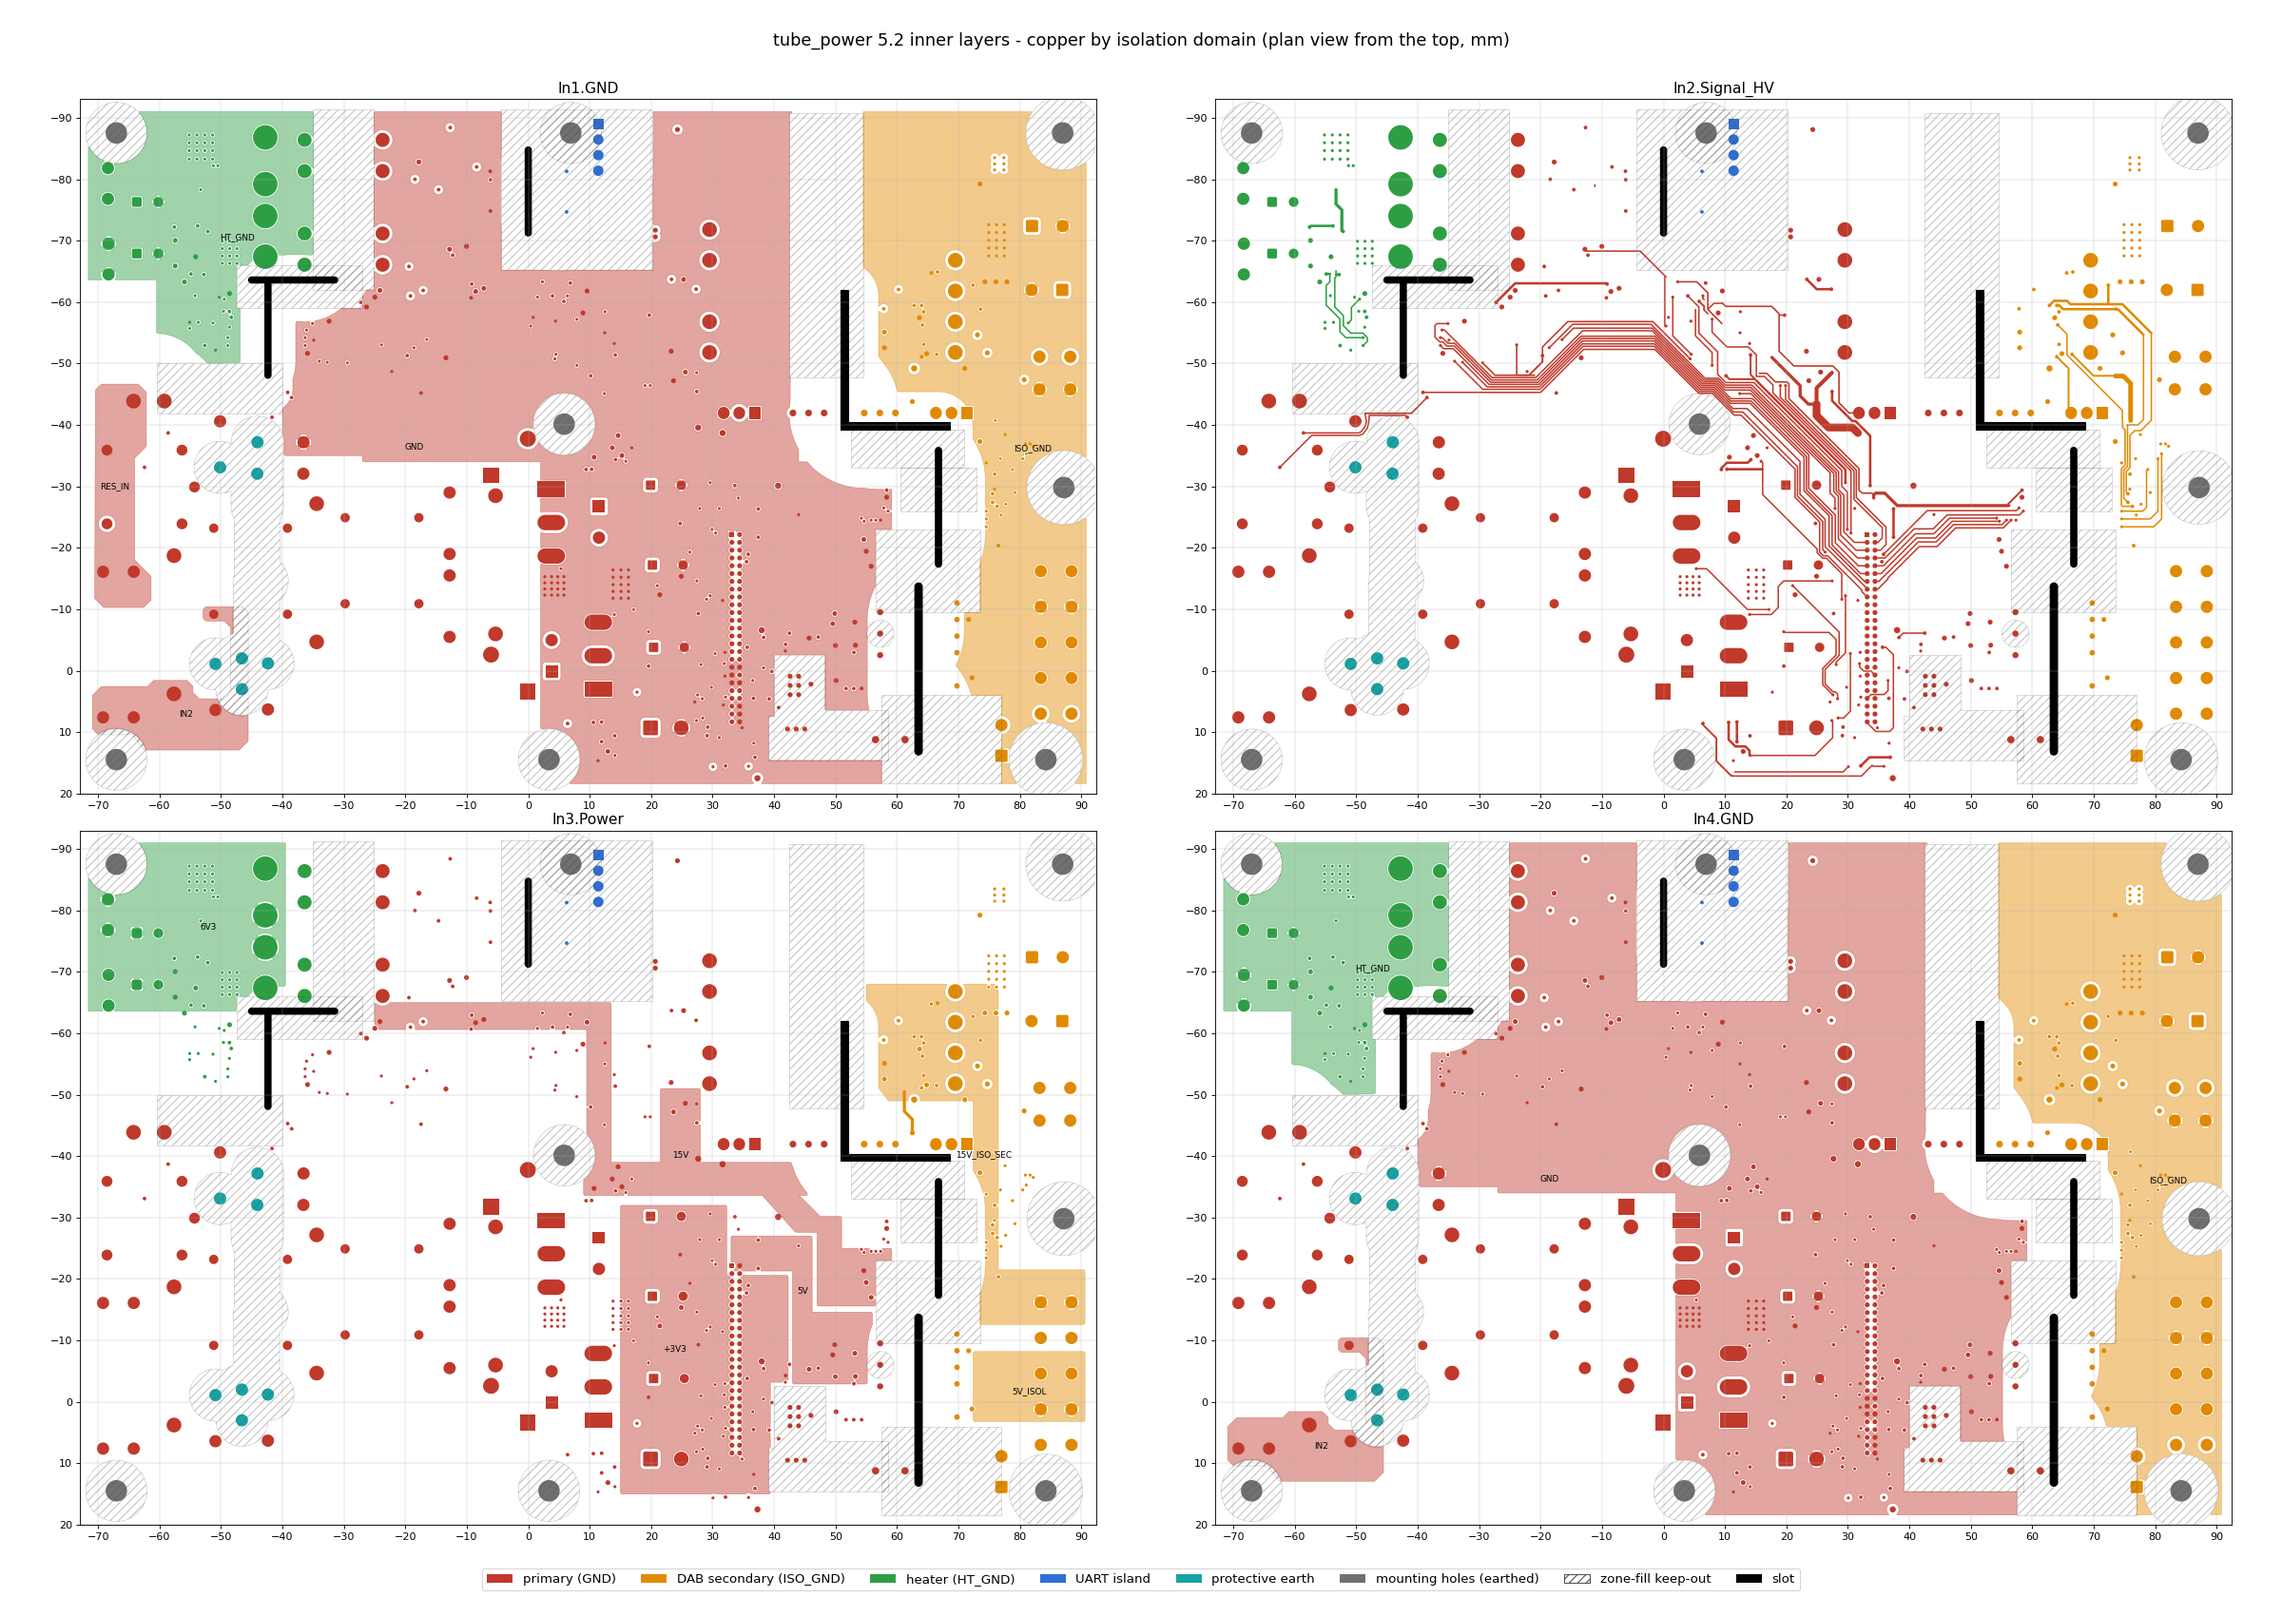
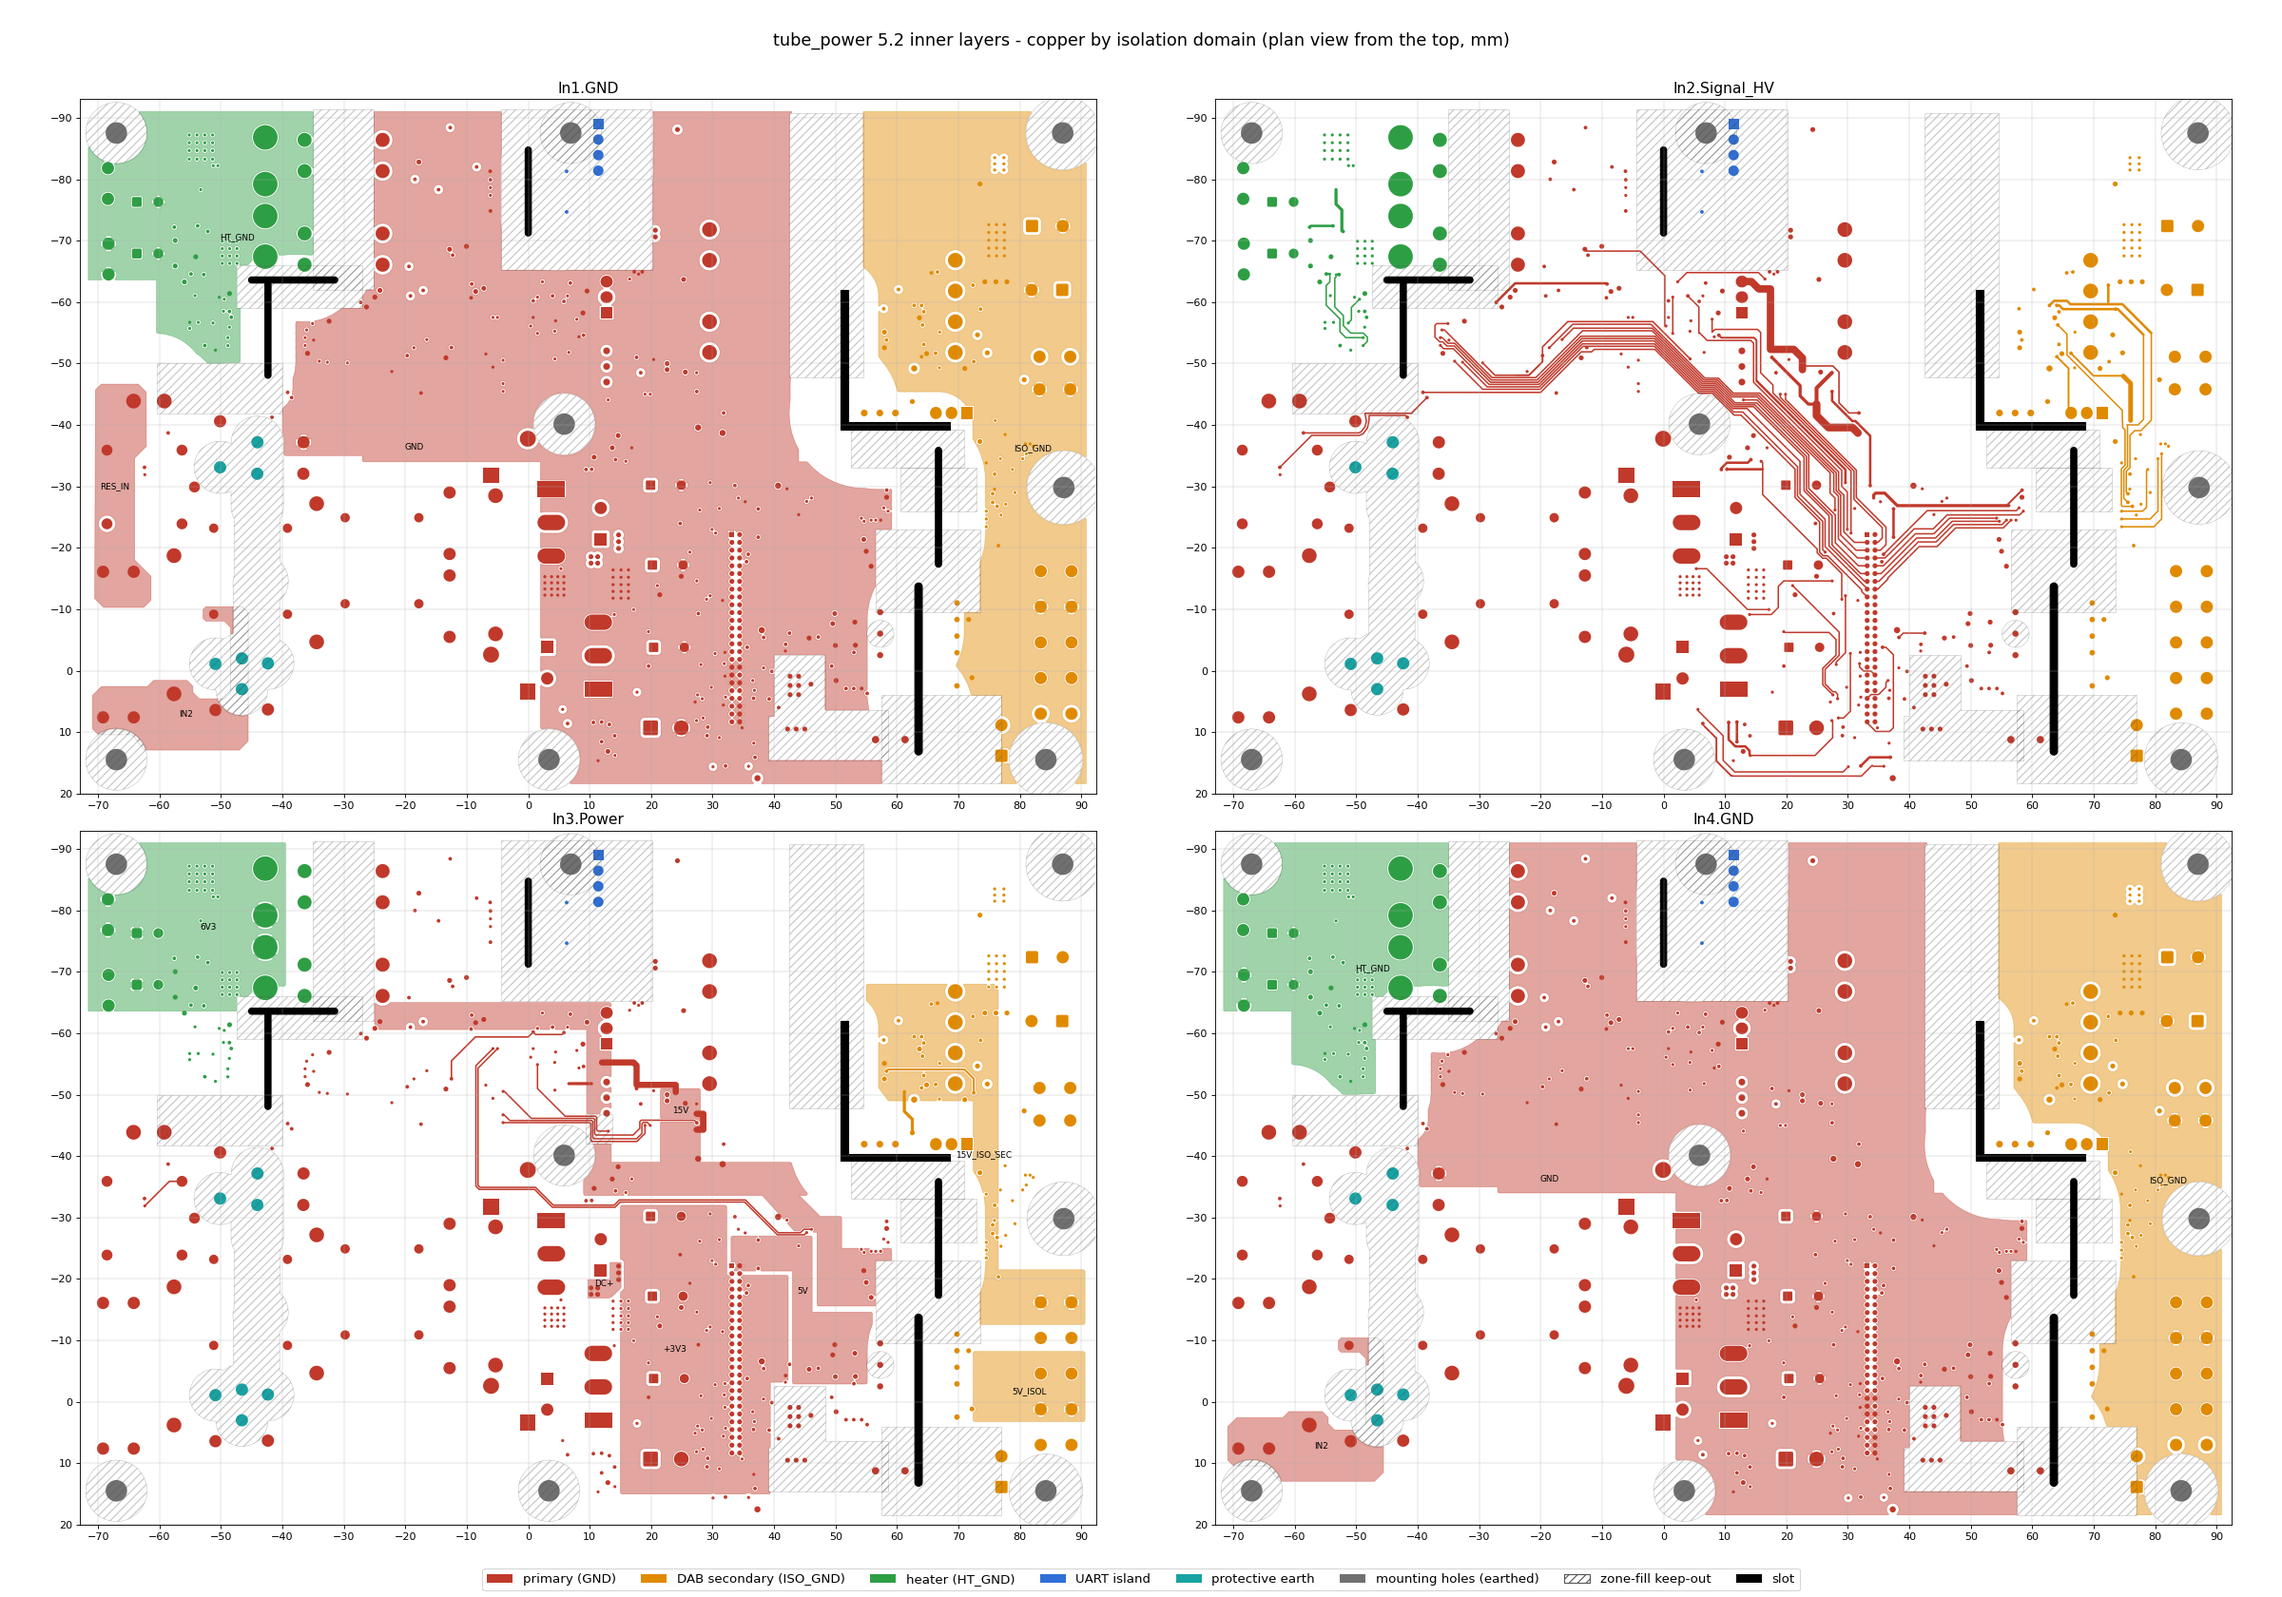
5.2 stage 6 (2): README 'First draft (2026-11-22)' - DRC counts with what is left and why, courtyard classification (106 as in 5.1, 26 courtyard-only, 0 new collisions), via-in-pad list, not checked, open inputs; layer PNGs regenerated from the current board
Claude-Session: https://claude.ai/code/session_0167bwH7SqCZEEn3vcdrr4Mn

diff --git a/kicad_next/README.md b/kicad_next/README.md
@@ -78,6 +78,52 @@ since routing stage 4k; it held the Q19 / Q21 slot exception and the TR1 pin 2 /
 becomes the real board) replaces the plain DRC step (0 violations required, full creepage DRC) by `check_board.py`
 and lets `make_board.py --check` accept internal Edge.Cuts slots inside the unchanged 5.1 outline.
 
+## First draft (2026-11-22)
+
+State after the clean-up pass `tools/next/route_s6_cleanup.py --group clr,dangling` (stage 6; incremental, not
+re-runnable; `routing/deleted_s6.json`, `s6_added.json`, `moves_s6.json` (empty)): every connection of the netlist is
+made, 0 shorts, 0 unconnected, `tools/next/check_next.sh` passes. This is the first complete draft, not a board
+checked for ordering. No part moved in this pass. PNGs of all six copper layers of this state: `routing/s3a_F_Cu.png`,
+`s3a_B_Cu.png`, `In1_GND.png` ... `In4_GND.png`, overviews `inner_domains.png`, `s3a_power_nets.png`
+(`render_s3a.py`, `render_inner_layers.py`).
+
+### DRC (check_board.py, without the creepage pass and without silkscreen checks)
+
+| type | before | now | what is left and why |
+|---|---|---|---|
+| shorts / unconnected / parity | 0 | 0 | |
+| clearance | 5 (7 with `--all-track-errors`) | 0 | Net class gaps 0.2 mm that were 0.16 ... 0.175 mm: EPWM5A_ISO In2 diagonal 0.09 mm further from the EPWM6A_ISO via (-48.89, -54.21); 5V on B.Cu 0.045 mm west (x -59.745, y -33.0 ... -26.5) past the pads of D9 and D28 pad A (two of the three pads were hidden behind the first marker); GND via (27.1, 5.1) -> (27.15, 5.1); Net-(C11-Pad1) via (28.4, 7.7) -> (28.45, 7.7); GND via (4.45, -56.9) -> (4.45, -56.95). The Net-(C11-Pad1) via now has 0.204 / 0.213 / 0.204 mm to the +1V65_BIAS track (F.Cu), R65 pad 2 and the Net-(C127-Pad1) track (B.Cu). |
+| track_dangling | 26 | 0 | Pieces under / inside a wider track of the same net, zero-length segments, overshoots trimmed to the via / junction, and stubs to nothing (5.1 leftovers of moved parts) deleted back to the next junction, with two vias that only fed such a stub (15V (15.24, -35.02), 5V (-23.9, -53.036) with its In2 lane). The longest: a +3V3 In2 lane of 25 mm from (34.2, -28.6) to a free end at (16.8, -48.4), and a +3V3 In2 stub at the via (5.8, -60.1). The DC+ track of C47 ended in a round hole of 'Proteus F.Cu pour 29' at (45.62, -41.95); it now ends inside the fill at y -42.7. |
+| courtyards_overlap | 132 | 132 | Classified by pad bounding boxes and F.Fab / B.Fab body boxes: 106 pairs stand exactly as in 5.1 (same relative place, side and turn; 17 of them with overlapping body boxes - film / electrolytic capacitors beside C86, C117, C37, C31 / C32 and the paralleled 1210 capacitors C99 / C100 / C101, C90 / C91 on the 420V rail whose same-net pads overlap); 26 pairs are new or changed and courtyard-only (pads of two nets >= 0.238 mm apart, no body box overlap > 0.05 mm; same-net pads touch at C124 / R70, R90 / D34, R79 / R49, R90 / R70). No pair with a new pad or body collision, so no part was moved. |
+| pth_inside_courtyard | 2 | 2 | Pin 1 of IN1 and pin 3 of CM1 inside the courtyard of the film capacitor C86 - as in 5.1 (the three parts are where they were). |
+| starved_thermal | 2 | 2 | C102 pin 1 (ISO_GND, (77.0, 13.85)) on In1 and In4: the pin stands in a 1.5 mm neck of the ISO_GND plane, one spoke north and one south. The barrel joins both; bias capacitor, no current. Not changed (a solid connection of this pad was not tried to the end). |
+| lib_footprint_mismatch | 2 | 2 | Q19 and Q21 (TO-220-3_Vertical): the board copies differ from the library footprint. Not looked into. |
+
+### Not checked
+
+* The creepage DRC pass of KiCad over the whole board (needs > 3 GB); the isolation distances are checked by
+  `check_domains.py` only.
+* Signal integrity of the UART pair: 82 mm on In3 between the pads of L2 and beside / under the power stages.
+* The via-in-pad process. 71 vias lie in or touch an SMD pad of their own net (47 with the centre inside the pad):
+  Q1 pad 3 (12), Q2 pad 3 (16), C73 pad 2 (10: 5 inside, 5 on the edge), C57 pad 2 (2), C89 pad 1 (2), R93 pad 2 (3),
+  one via shared by C67 pad 1 / C70 pad 1 (18.3, -48.5) and one by D10 pad A / R142 pad 2 (36.8, 3.2), and one each
+  at AD1 pad 3, AD2 pad 3, C125 pad 2, C139 pad 1, C22 pad 1, C27 pad 1, C68 pad 2, C79 pad 2, C80 pad 2, C95 pads 1
+  and 2, DRV2 pad 1, DRV5 pad 11, Q9 pad 1, Q10 pad 1, R103 pad 1, R128 pad 1, R142 pad 1, R21 pad 1, R51 pad 2,
+  R54 pad 2, R83 pad 1, R89 pad 1, U1 pad 4. Open: plugged vias at JLC or move them.
+* Tight spots that pass: round DRV5 (x -10 ... 20, y -60 ... -40) the In2 control bus (nine lanes, 0.152 mm gaps
+  for the 0.15 mm inner rule) and the four In3 lanes in the 15V window (0.158 mm) are at the rule by design; the
+  +1V65_BIAS via (13.0, -44.076) is 0.164 mm from the $HT_CS and SYNCH_2 lanes. None was nudged (each lane has a
+  neighbour on both sides). Pad gaps in that window were not listed.
+* Assembly: the 26 courtyard-only pairs were not checked against real part bodies or a pick-and-place rule.
+
+### Open inputs (user)
+
+* Heatsink footprint and height against C73 (12.5, -14.0) and C87 (5.7, -59.4) on F.Cu.
+* Measured body positions of L1 / L2.
+* Bobbin measurements of the transformers.
+* J2 pin 18.
+* TR2 dot / turns.
+
 ## Inner layers (routing stage 2, 2026-11-20)
 
 Made by `tools/p2k/bin/kipy tools/next/route_s2_planes.py` on the real board (re-runnable: everything it makes is
